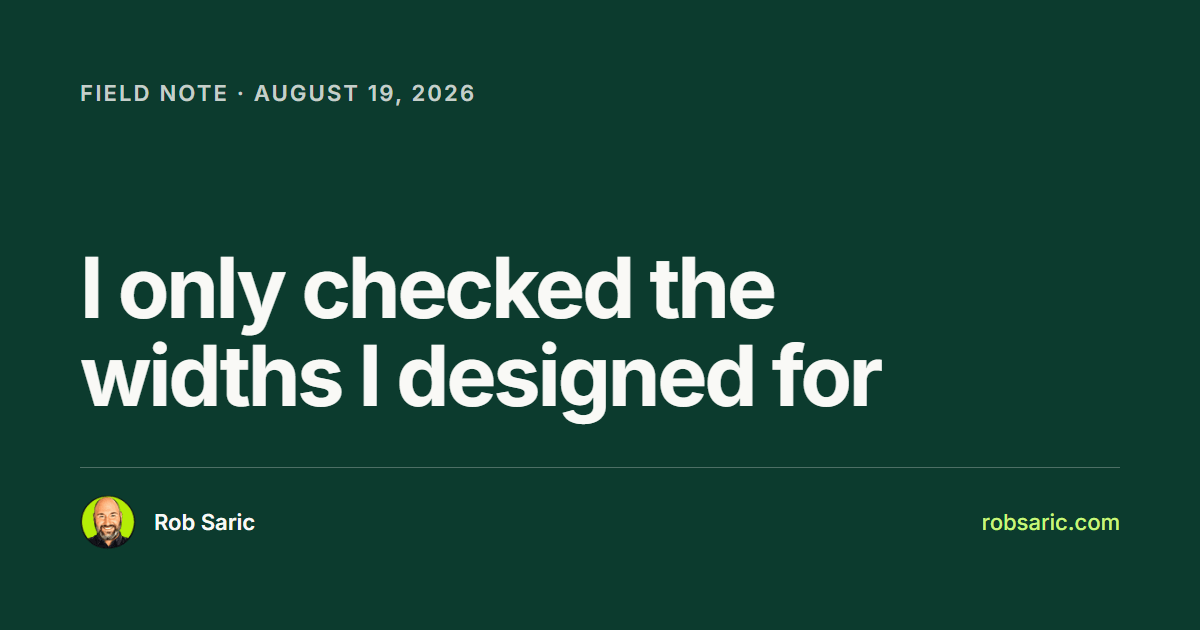
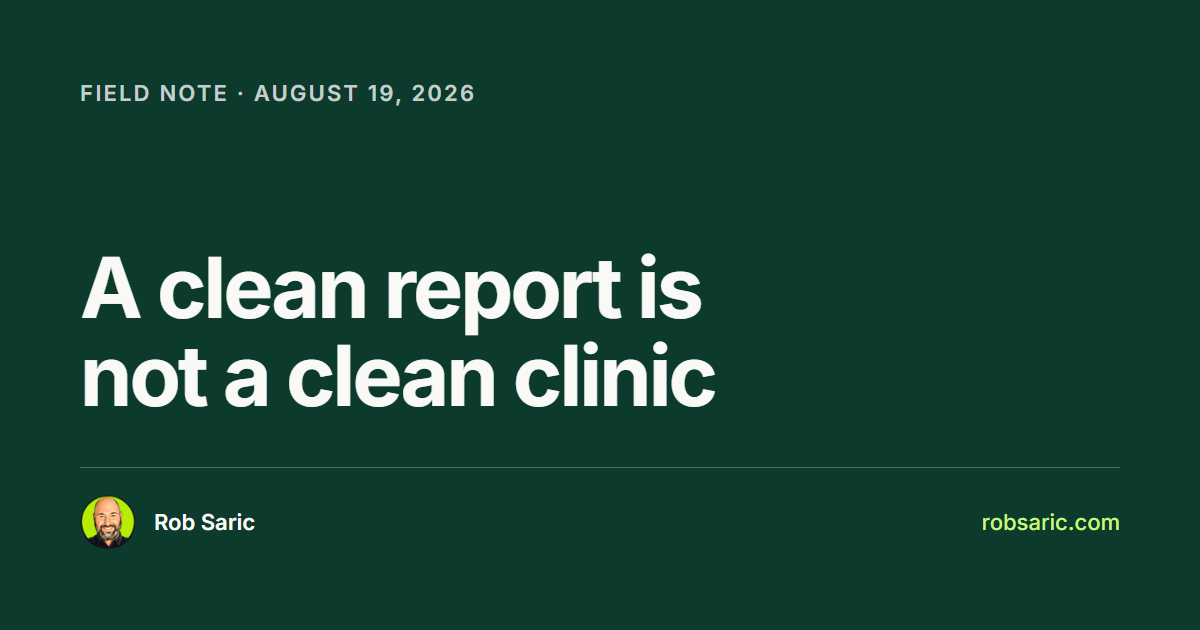
feat(notes): the rs-voice skill, and the widths note inverted to lead with the clinic
Rob's verdict on the widths note was the diagnosis: he could not tell what it
was about, and he built the site. A voice skill now exists so it cannot happen
again, and the note itself is fixed.

.claude/skills/rs-voice/SKILL.md is built from all 38 archive posts (five
parallel readers, one synthesis): the ten voice moves with verbatim archive
evidence, the list of what must not come back from the old blog, six reference
posts, and the boundary rules for quoting the archive under copy law. Its core
finding: the copy law does the subtraction, the voice supplies the addition,
and the law applied alone yields a colder writer than Rob is.

The skill's "widths test" is named for the note that failed it: the object in
the title and first three sentences must be something a clinic owner has held,
every noun must survive the front desk, the title alone must give a scanning
owner purchase, and the exit must land in their clinic. The note is inverted
accordingly and retitled "A clean report is not a clean clinic": the patient
who never rebooked and the claim never submitted now lead, the website story
compresses to a one-paragraph confession, and the close is checkable this week
(pull the patients whose last visit has no next appointment). Retagged Founder
notes to Clinic revenue. The slug does not change; the filename is the
permanent URL. Its OG card is regenerated with the new title.

"I took my own number down" gains one early bridge ("If you have ever been
[…]

Changed region(s): [[0.0617, 0.3921, 0.74, 0.6937]]

diff --git a/.claude/skills/rs-voice/SKILL.md b/.claude/skills/rs-voice/SKILL.md
@@ -1,0 +1,106 @@
+---
+name: rs-voice
+description: Write or redraft prose in Rob's voice. Use before drafting any field note, page copy, or reader-facing sentence, and whenever a draft reads flat, generic, or like a machine wrote it. Built 2026-08-25 from all 38 archive posts. Covers the ten voice moves with archive evidence, the widths test that catches notes clinic owners cannot parse, and what from the old blog must not come back.
+---
+
+# Write in Rob's voice
+
+`rs-copy` is mechanics and mirrors. `rs-note` is the publishing pipeline. This skill is the voice
+itself, extracted from the 2009 to 2019 archive (`src/content/archive/`), which is the largest body
+of Rob's real writing that exists. The copy law enforces the subtraction; this skill supplies the
+addition. Applied alone, the law yields a colder writer than Rob actually is. A field note that
+reads coldly clinical is as false to him as one that gushes.
+
+## The ten moves, each proven in the archive
+
+1. **Verdict before explanation.** Open on the concrete thing: a person, a scene, a blunt answer.
+   Never a paragraph on why the topic matters. If you pose a question, answer it flat in the next
+   sentence. ("The general answer to that question is no." — should-i-ever-provide-free-services)
+2. **The hammer rhythm.** A long comma-chained sentence stacking two or three clauses, then a
+   verdict of two to five words. The short sentence is where the conviction lives; spend it on the
+   judgment, never the setup. The last line of the piece is the punchiest in it. ("I have been a
+   competitor my whole life. It's who I am." — why-entrepreneurs-should-have-a-bit-of-an-ego)
+3. **Count exactly, even in emotional writing.** Where a vaguer writer says "many", reach for the
+   number, unit, and duration. Precision is a personality trait, not decoration; it predates the
+   number law by a decade. ("over 20 blood transfusions, 50 PICC insertions, 4 different
+   hospitals" — enjoy-the-little-things)
+4. **Coin and name concepts.** Give the rule or the type of person a label of Rob's own, define it
+   in one plain sentence, then hang the piece on the name. ("what I like to call 'Minimum Viable
+   Cashflow (MVC)'" — 3-essential-rules. Live descendant: "Identified is not collected.")
+5. **One compressed true story earns the advice**, then the moral is extracted explicitly. The
+   story never runs longer than the lesson it serves. The best stories are his own or his
+   family's, with real texture: a named place, quoted dialogue, the emotion named. When anyone in
+   the story is naive, it is Rob.
+6. **Fellow traveler, not guru.** Prescribe in "you", confess in "we", prove in "I". Admit the
+   specific scar, often in a parenthesis, before returning to the prescription. Verdicts stay
+   absolute; the self stays modest. ("(I learned this the hard way)" — indifference-negotiating)
+7. **Binary contrast and ranked priority.** Outcomes not activities; on the business versus in the
+   business; solvency first, growth third. State the rule, then immediately name its exception if
+   one exists. Copy law caps this at one "not X, it's Y" per section, so make the one count.
+8. **One homely metaphor per piece, at most**, drawn from ordinary physical life (a car out of
+   alignment, poker chips), mapped item by item onto the point. Never stack figurative language.
+   The metaphor carries what humor exists; he does not tell jokes.
+9. **Close short on something the reader carries out of the room**: an imperative, a portable
+   rule, a compressed moral. Never a summary, never trailing off. Some of his best closes are two
+   words. ("Be ready." — where-do-you-find-your-professional-inspiration)
+10. **Keep the unguarded earnestness.** He writes about family, values, and belief without irony,
+    and is never cynical or snarky; bad actors stay anonymous. The current site's restraint is a
+    discipline over a naturally warm writer, not a replacement for the warmth.
+
+## The widths test (run it before any note ships)
+
+Named for the note that failed it, `2026-08-19-i-only-checked-the-widths-i-designed-for`. Four
+checks, in order:
+
+1. **Object test.** The thing the story handles in its title and first three sentences must be
+   something the clinic owner has personally held: a front-desk report, a vendor's recovery
+   figure, a patient who left unbooked. If the familiar object arrives only by analogy in the back
+   half, the note is running backwards. Invert it, or mark it a founder note and stop asking
+   clinic owners to read it.
+2. **Noun test.** Read every noun as the person running the desk. "Cancellations marked
+   will-reschedule" passes; "widths", "artboards", "fails the build" fail. A noun that needs
+   translation is a defect; an analogy transfers no conviction when the reader cannot evaluate the
+   source domain.
+3. **Title test.** Scanning the field-notes index, the title alone must give a clinic owner
+   purchase on their own clinic.
+4. **Exit test.** The final paragraph lands in the reader's clinic with something checkable this
+   week, never back in Rob's workflow.
+
+Then the human gate no lint can run: read it once more as a clinic owner, and confirm nothing in
+it requires trusting Rob rather than checking for themselves.
+
+## From the archive, do not carry forward
+
+Listicle scaffolding ("Here are the 3...", "There you have it"), consensus openers ("Many people
+would agree"), mid-sentence bolding for skimmers, ALL-CAPS and exclamation marks, era intensifiers
+(certainly, truly, absolutely, tremendously), motivational-poster quotes and celebrity garnish,
+consultant idiom (win-win, synergy, step up to the plate, "With that being said"), guru assurances
+("Trust me", "I guarantee"), link dumps, the sign-off ("Thanks for reading. Respectfully, Rob"),
+borrowed statistics standing in for his own counts, and the spaced dash as pivot. The pivot itself
+is durable Rob; rebuild it with a period, colon, or fragment. Imitate the unfussiness and speed of
+the old posts, never their typos.
+
+## Reference reading, in the archive
+
+- `enjoy-the-little-things` — the voice at its purest: precise counts inside an emotional family
+  story, the extracted moral, the hammer close, the warmth.
+- `3-essential-rules-for-your-startup-journey` — the mature operator voice, closest ancestor of
+  the field notes: coined concepts, ranked priorities.
+- `indifference-can-be-powerful-when-negotiating` — rules as short imperatives, one sustained
+  metaphor, the confessed scar.
+- `alignment` — the self-answered question pivot and the metaphor mapped item by item.
+- `board-meetings` — the single-scene personal story done right, Rob cast as the student.
+- `the-humble-rainmaker` — the naming move and the composite portrait in parallel clauses.
+
+The live model note is `2026-08-18-unbooked-at-the-desk`: every noun is front-desk, the cohort is
+disclosed, causation is hedged honestly, a discarded number is shown with the reason, and it
+closes on an action for this week.
+
+## Boundary rules the copy law does not state
+
+- **Mention versus use.** A banned word inside a verbatim, visibly dated archive quote is a
+  mention and legal. The same claim paraphrased approvingly in current voice trips the law.
+- **No promotion.** The archive is not a citable source. Its numbers and aphorisms predate the
+  number law; nothing moves from archive into current copy unless it independently meets the law.
+- **Exemption boundary.** Archive bodies are kept as written (hard rule 6). Any new editorial
+  framing written around archive content today is current voice, fully subject to the law.

diff --git a/src/content/notes/2026-08-19-i-only-checked-the-widths-i-designed-for.md b/src/content/notes/2026-08-19-i-only-checked-the-widths-i-designed-for.md
@@ -1,41 +1,24 @@
 ---
-title: "I only checked the widths I designed for"
-summary: "This site was drawn at two screen widths and reviewed at the same two. Those turned out to be the two widths where a large bug was invisible."
+title: "A clean report is not a clean clinic"
+summary: "The patient who never rebooked is not on the no-show report. The claim never submitted is not on aging. A clean report only means what you chose to look at is fine."
 type: "Field note"
 date: 2026-08-19
 tags:
-  - "Founder notes"
+  - "Clinic revenue"
 stage: -1
-meta: "Founder notes"
-description: "This site was drawn at two screen widths and reviewed at the same two. They were the two widths where a large layout bug happened to be invisible."
+description: "The patient who never rebooked is not on any no-show report, and the claim never submitted is not on aging. What clean reports cannot show."
 ---
 
-This site was drawn at two screen widths. A wide one for desktop and a narrow one for phones. The checklist I wrote for myself said to take screenshots at those two widths before shipping anything.
+The patient who never rebooked is not on your no-show report. She did not miss anything. She left her last visit with nothing booked, so there was no appointment to fail to show up for, and every report you run says the month went fine.
 
-I did that every time. It passed every time.
+The claim that was never submitted is the same story. Aging reports age claims that exist.
 
-Then I measured the widths in between. On a small laptop, the homepage was running about four hundred pixels wider than the window. The whole page slid sideways. On a slightly larger screen it was still off by more than two hundred, and it did not come right until the window was wider than most laptops people actually own.
-
-It had been broken the entire time. My review had certified it, repeatedly, because my review looked at exactly the two places the problem could not appear.
-
-The cause was ordinary. The layout had one rule that switched between phone and desktop, and nothing in between, so a laptop got the desktop arrangement at a size it was never built for. Boring to fix.
-
-The interesting part is the review. I had a checklist. I followed it. It was thorough about the two views it named and silent about everything else, and silence reads exactly like a pass.
-
-## The same shape shows up at a front desk
-
-Every clinic I have looked at has a version of this.
-
-You have a report you trust. You built it, or someone built it for you, and you check it on a rhythm. It shows what you thought to measure when you set it up.
-
-The gap is almost never inside that view. It is in the range nobody drew. The patient who never rebooked does not appear on a no-show report, because she did not fail to show up for anything. She simply never got a next appointment. The claim that was never submitted is not on an aging report, because aging reports show claims that exist.
+You have a report you trust. You built it, or someone built it for you, and you check it on a rhythm. It shows what you thought to measure on the day you set it up, and the gap is almost never inside that view. It is in the range nobody drew.
 
 A clean report is not the same as a clean clinic. It means everything you decided to look at is fine.
 
-## What I would actually check
+I fell for my own version of this the week I built this site. The design was drawn at two screen widths, a wide one for desktops and a narrow one for phones, and my pre-ship checklist said to screenshot both. I did, every time, and it passed every time. Then I measured the sizes in between and found the homepage running four hundred pixels wider than a small laptop's screen. It had been broken the entire time. My checklist was thorough about the two views it named and silent about everything else, and silence reads exactly like a pass (the check runs at seven widths now, and it fails loudly instead of waiting for me to notice).
 
-The question I now ask about any report, mine included, is not what it says. It is what would have to go wrong for this to still look fine.
+So the question I now ask about any report, mine included, is what would have to go wrong for it to still look fine. For my site the answer was a laptop. For a clinic it is usually a patient who quietly stopped existing in the system, and almost no standard report is built to show those.
 
-For this site, the answer was a laptop. So the check is automated now, at seven widths instead of two, and it fails the build rather than waiting for me to notice.
-
-For a clinic, the answer is usually a patient who stopped existing in the system rather than one who did something wrong. Those are the ones worth hunting, and almost no standard report is built to show them.
+What I would check in your clinic: pull the patients whose last visit has no next appointment after it, this month and last. No report flags them. That is the point.

diff --git a/docs/COPY.md b/docs/COPY.md
@@ -133,7 +133,7 @@ Principles 4 and 5 come from design v4 (7a), where the list had six; "Good syste
 - Filter pills: All, then only the tags carried by notes actually in that grid, in `NOTE_TAGS` order (Clinic revenue · Billing and insurance · Patient flow · AI and trust · Building Caretrics · Founder notes). Below two represented tags the row is not rendered, so a pill never leads to the empty state.
 - Empty state: Nothing filed under this one yet.
 - Card types: Field note · Shipped · Changed my mind
-- Notes (`src/content/notes/*.md`). Live: `2026-08-18-unbooked-at-the-desk` (2026-08-18), `2026-08-19-i-took-my-own-number-down` and `2026-08-19-i-only-checked-the-widths-i-designed-for` (both 2026-08-19). The two 08-19 notes are written from events in this repo that are verifiable in git history: the metric cut in `82b38da` and the mid-range layout bug measured in `0c016fe`. They invent no clinic data, which is why they could be written and the six seed notes could not. Still `draft: true` `[DRAFT, V9]`: the six seed entries transcribed from the artboard. Each card body is the note's `summary`; each seed file needs a real body before `draft` is removed.
+- Notes (`src/content/notes/*.md`). Live: `2026-08-18-unbooked-at-the-desk` (2026-08-18), `2026-08-19-i-took-my-own-number-down` and `2026-08-19-i-only-checked-the-widths-i-designed-for` (both 2026-08-19). The two 08-19 notes are written from events in this repo that are verifiable in git history: the metric cut in `82b38da` and the mid-range layout bug measured in `0c016fe`. They invent no clinic data, which is why they could be written and the six seed notes could not. The widths note was retitled "A clean report is not a clean clinic" and inverted 2026-08-25 to lead with the clinic and compress the website story to a confession (the rs-voice widths test, which it had failed); the slug is unchanged because the filename is the permanent URL. The number-down note gained an early vendor-deck bridge the same day. Still `draft: true` `[DRAFT, V9]`: the six seed entries transcribed from the artboard. Each card body is the note's `summary`; each seed file needs a real body before `draft` is removed.
 - `/field-notes/` H1: Field notes, and nothing else in the page header. The line "Kept in public, in order. The wrong turns stay in." belongs to the section intro and was printing twice on this page until 2026-08-19. · meta description: Field notes from Rob Saric on clinic revenue, ownership, and building Caretrics. Kept in public, in order.
 - Article byline (field-note articles only, added 2026-08-24): "By Rob Saric · Founder of Caretrics", under the date in the article header; the name links to `/about/`. The JSON-LD already carried the author; now the reader sees it too. Archive posts stay as written, no byline.
 - Updated line: when a note carries `updated` frontmatter, the date line reads "[published date] · Updated [updated date]".

diff --git a/src/content/notes/2026-08-19-i-took-my-own-number-down.md b/src/content/notes/2026-08-19-i-took-my-own-number-down.md
@@ -20,6 +20,8 @@ So the number came off.
 
 Not because it was wrong. Because a figure without its method is a claim, and this site has a principle that says identified is not collected. I wrote that principle to describe what a scan does and does not prove. It turns out it also describes what I had done to my own visitors: shown them a total and asked them to take my word for the arithmetic.
 
+If you have ever been handed a recovery figure in a vendor deck, this is a note about that number too.
+
 Taking someone's word for the arithmetic is the exact habit I am asking clinic owners to break.
 
 The uncomfortable part is that nobody would have caught it. The number is true. If I had left it up and written the page in a month, no reader would have known the difference. The only thing that failed was the standard, and standards that only bind you when someone is watching are not standards.
